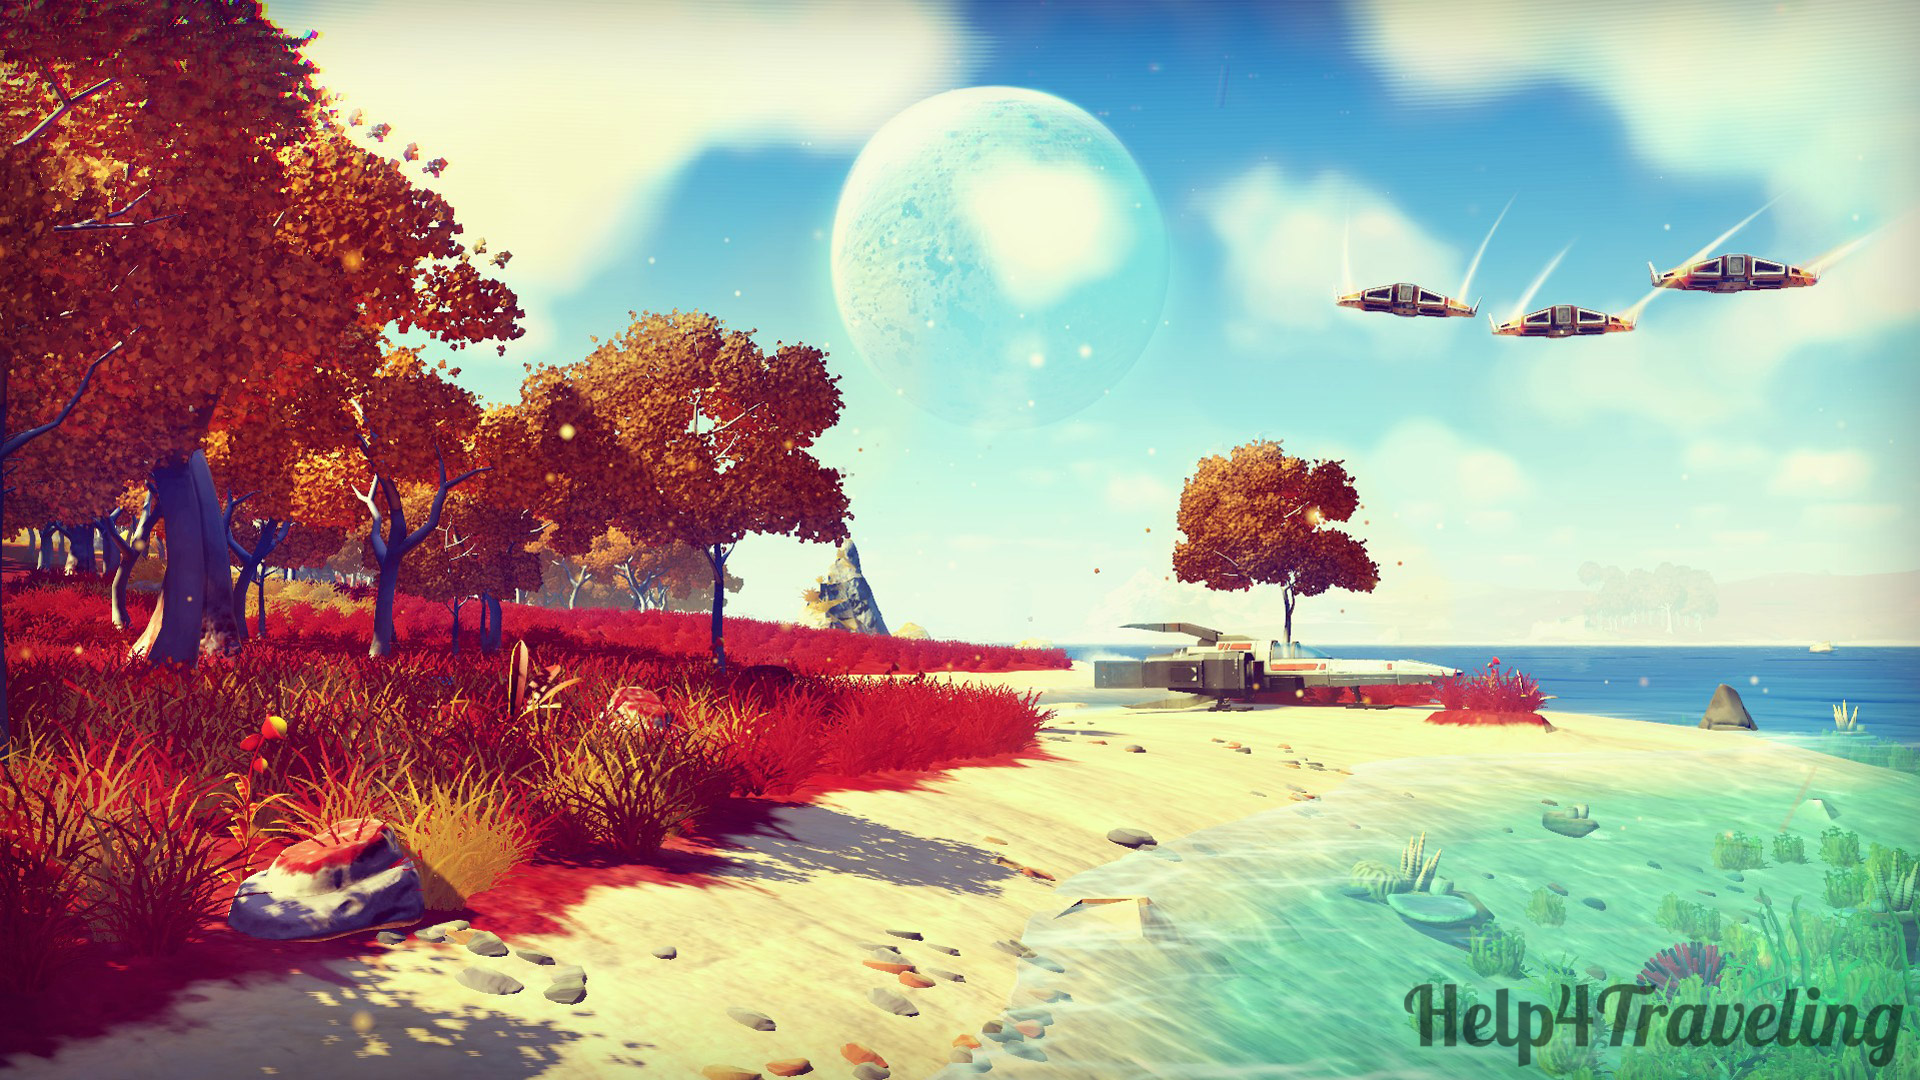
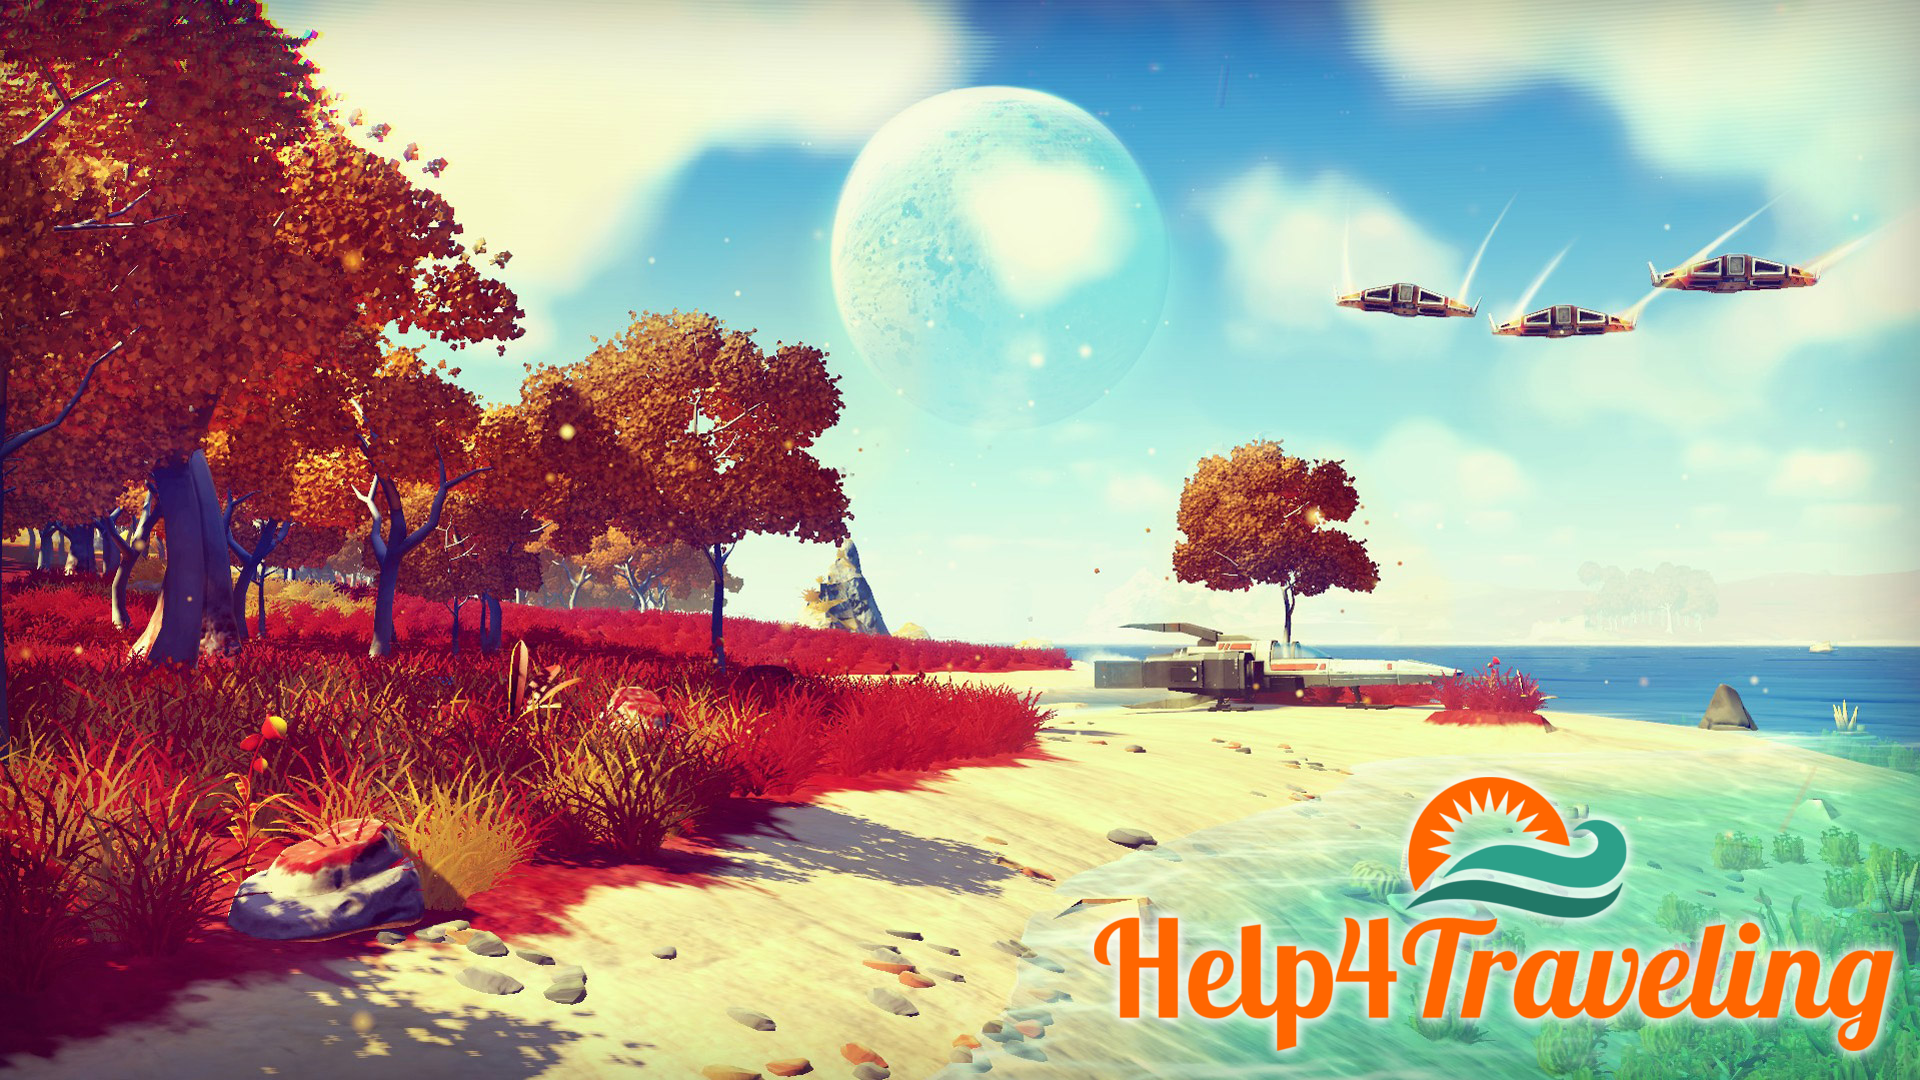
Fondo e icono nuevos.

Changed region(s): [[0.5625, 0.7028, 1.0, 1.0]]

diff --git a/Help4Traveling/src/Vista/Principal.java b/Help4Traveling/src/Vista/Principal.java
@@ -106,8 +106,10 @@ public class Principal extends javax.swing.JFrame {
             @Override
             protected void paintComponent(Graphics g)
             {
-                super.paintComponent(g);
-                g.drawImage(image, 0, 0, getWidth(), getHeight(), null);
+                scaled = image.getScaledInstance(getWidth(),getHeight(), Image.SCALE_AREA_AVERAGING);
+                icon = new ImageIcon(scaled);
+                //super.paintComponent(g);
+                g.drawImage(icon.getImage(), 0, 0, getWidth(), getHeight(), null);
             }
         };
         jMenuBar1 = new javax.swing.JMenuBar();
@@ -139,16 +141,21 @@ public class Principal extends javax.swing.JFrame {
 
         setDefaultCloseOperation(javax.swing.WindowConstants.EXIT_ON_CLOSE);
         setTitle("Help4Traveling");
+        setIconImage(new javax.swing.ImageIcon(getClass().getResource("/Iconos/logo-icon.png")).getImage());
+        setMinimumSize(new java.awt.Dimension(640, 360));
+
+        escritorio.setMinimumSize(new java.awt.Dimension(640, 360));
+        escritorio.setPreferredSize(new java.awt.Dimension(960, 540));
 
         javax.swing.GroupLayout escritorioLayout = new javax.swing.GroupLayout(escritorio);
         escritorio.setLayout(escritorioLayout);
         escritorioLayout.setHorizontalGroup(
             escritorioLayout.createParallelGroup(javax.swing.GroupLayout.Alignment.LEADING)
-            .addGap(0, 900, Short.MAX_VALUE)
+            .addGap(0, 960, Short.MAX_VALUE)
         );
         escritorioLayout.setVerticalGroup(
             escritorioLayout.createParallelGroup(javax.swing.GroupLayout.Alignment.LEADING)
-            .addGap(0, 577, Short.MAX_VALUE)
+            .addGap(0, 540, Short.MAX_VALUE)
         );
 
         jMenu1.setText("Inicio");
@@ -310,11 +317,11 @@ public class Principal extends javax.swing.JFrame {
         getContentPane().setLayout(layout);
         layout.setHorizontalGroup(
             layout.createParallelGroup(javax.swing.GroupLayout.Alignment.LEADING)
-            .addComponent(escritorio)
+            .addComponent(escritorio, javax.swing.GroupLayout.DEFAULT_SIZE, javax.swing.GroupLayout.DEFAULT_SIZE, Short.MAX_VALUE)
         );
         layout.setVerticalGroup(
             layout.createParallelGroup(javax.swing.GroupLayout.Alignment.LEADING)
-            .addComponent(escritorio)
+            .addComponent(escritorio, javax.swing.GroupLayout.DEFAULT_SIZE, javax.swing.GroupLayout.DEFAULT_SIZE, Short.MAX_VALUE)
         );
 
         pack();
@@ -502,8 +509,9 @@ public class Principal extends javax.swing.JFrame {
     private javax.swing.JMenuItem bm_verInfoCliente;
     private javax.swing.JMenuItem bm_verInfoProveedor;
     public static javax.swing.JDesktopPane escritorio;
-    ImageIcon icon = new ImageIcon(getClass().getResource("/help4traveling/fondo.png"));
-    Image image = icon.getImage();
+    private ImageIcon icon = new ImageIcon(getClass().getResource("/help4traveling/fondo.png"));
+    private Image image = icon.getImage();
+    private Image scaled;
     private javax.swing.JFileChooser fc_seleccionar_archivo;
     private javax.swing.JMenu jMenu1;
     private javax.swing.JMenu jMenu2;

diff --git a/Help4Traveling/src/Vista/ActualizarReserva.java b/Help4Traveling/src/Vista/ActualizarReserva.java
@@ -118,8 +118,8 @@ public class ActualizarReserva extends javax.swing.JInternalFrame {
         setResizable(true);
         setTitle("Actualizar Reserva");
         setFrameIcon(new javax.swing.ImageIcon(getClass().getResource("/Iconos/edit-icon.png"))); // NOI18N
-        setMinimumSize(new java.awt.Dimension(440, 204));
-        setPreferredSize(new java.awt.Dimension(600, 204));
+        setMinimumSize(new java.awt.Dimension(575, 210));
+        setPreferredSize(new java.awt.Dimension(600, 210));
 
         jTableRes.setModel(new javax.swing.table.DefaultTableModel(
             new Object [][] {
@@ -174,7 +174,7 @@ public class ActualizarReserva extends javax.swing.JInternalFrame {
             .addGroup(layout.createSequentialGroup()
                 .addContainerGap()
                 .addGroup(layout.createParallelGroup(javax.swing.GroupLayout.Alignment.LEADING)
-                    .addComponent(jScrollPane3, javax.swing.GroupLayout.DEFAULT_SIZE, 586, Short.MAX_VALUE)
+                    .addComponent(jScrollPane3)
                     .addGroup(layout.createSequentialGroup()
                         .addComponent(jLabelRes)
                         .addGap(0, 0, Short.MAX_VALUE))
@@ -192,19 +192,19 @@ public class ActualizarReserva extends javax.swing.JInternalFrame {
         );
         layout.setVerticalGroup(
             layout.createParallelGroup(javax.swing.GroupLayout.Alignment.LEADING)
-            .addGroup(javax.swing.GroupLayout.Alignment.TRAILING, layout.createSequentialGroup()
+            .addGroup(layout.createSequentialGroup()
                 .addContainerGap()
                 .addComponent(jLabelRes)
                 .addPreferredGap(javax.swing.LayoutStyle.ComponentPlacement.UNRELATED)
-                .addComponent(jScrollPane3, javax.swing.GroupLayout.DEFAULT_SIZE, 104, Short.MAX_VALUE)
-                .addPreferredGap(javax.swing.LayoutStyle.ComponentPlacement.RELATED)
+                .addComponent(jScrollPane3, javax.swing.GroupLayout.DEFAULT_SIZE, 98, Short.MAX_VALUE)
+                .addPreferredGap(javax.swing.LayoutStyle.ComponentPlacement.UNRELATED)
                 .addGroup(layout.createParallelGroup(javax.swing.GroupLayout.Alignment.BASELINE)
                     .addComponent(jButtonActual)
                     .addComponent(jButtonCerrar)
                     .addComponent(jButtonMod)
                     .addComponent(jComboBoxEstado, javax.swing.GroupLayout.PREFERRED_SIZE, javax.swing.GroupLayout.DEFAULT_SIZE, javax.swing.GroupLayout.PREFERRED_SIZE)
                     .addComponent(jLabelEstado))
-                .addContainerGap())
+                .addGap(12, 12, 12))
         );
 
         pack();
